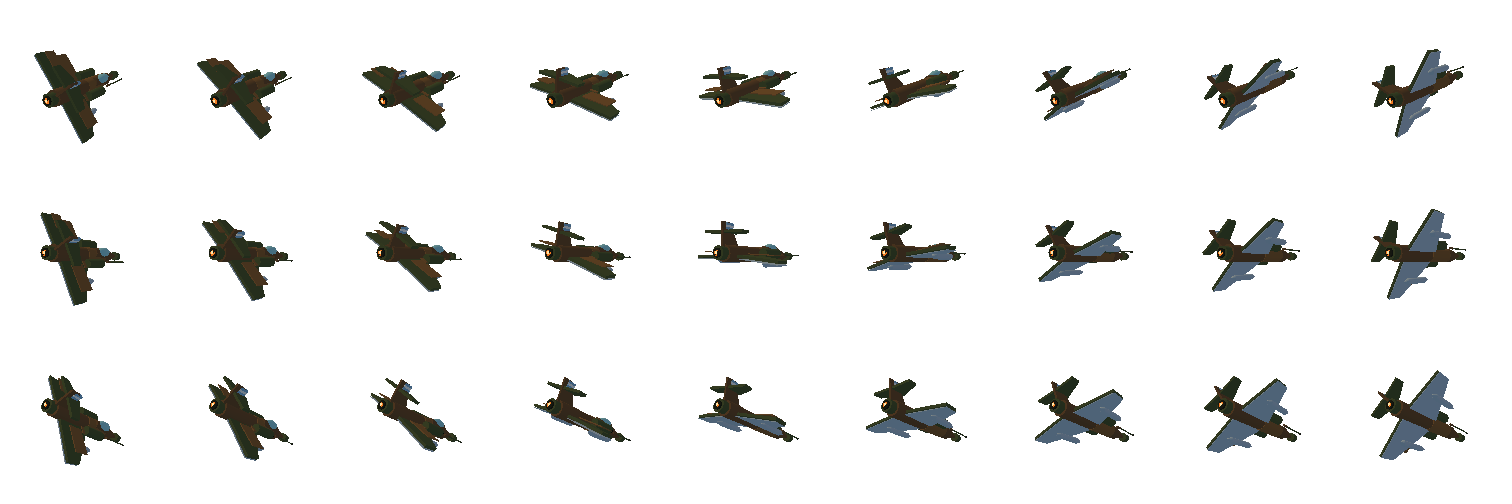
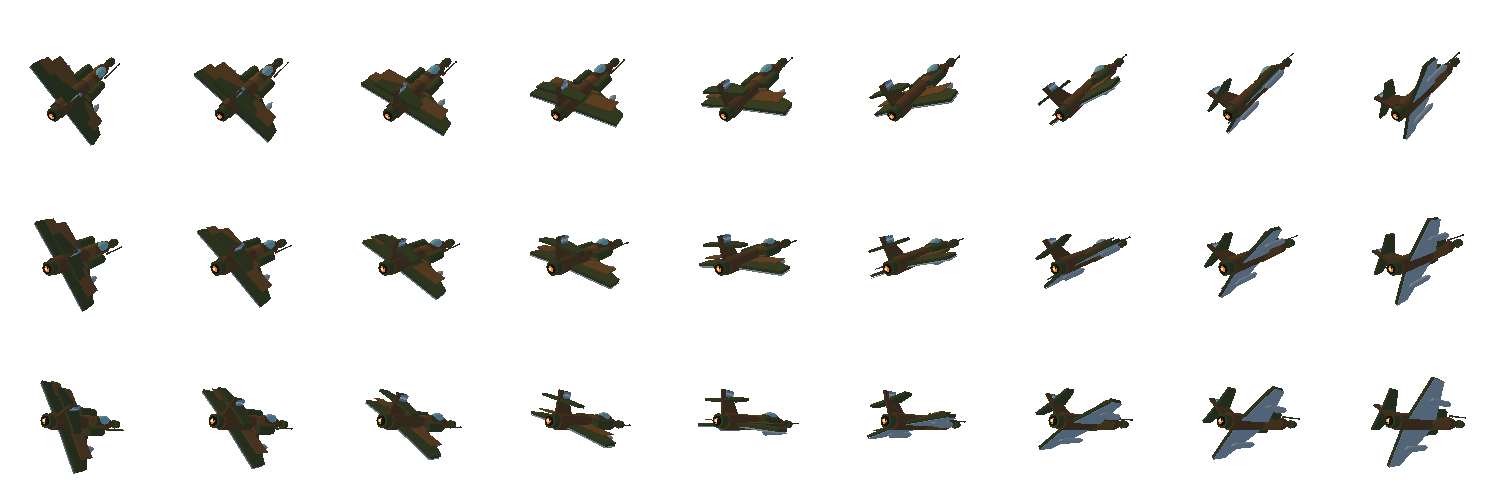
rasante: recto no es lo mismo que bien — el avion a ras va con la trompa arriba
Tercera corrección de Matias sobre la hoja del poder, y la que mas enseña: "mira hacia abajo
como queriendose estrellar en el agua". El eje estaba MEDIDO en -2°, o sea recto. Y estaba mal
igual.

POR QUE: un avion volando a ras a 900 km/h va con la trompa ARRIBA, sosteniendose con angulo de
ataque — no clavado en la horizontal. Sobre un mar que corre hacia la camara, un sprite
perfectamente horizontal no se lee "nivelado": se lee CAYENDO. Las dos correcciones anteriores
buscaron el cero de una regla; esta dice que el cero de la regla no era el objetivo.

EL NUMERO NO SALIO DE UN BARRIDO NUEVO: salio de la pantalla. La pose que Matias aprobo —"asi
estoy manteniendo hacia arriba y QUEDA BIEN"— era literalmente LA FILA 0 de la horneada
anterior, o sea 14 + 6 = 20. Se adopta ese valor como base y las tres filas se corren con el:

    fila 0 (trepa) = 34   ·   fila 1 (nivel) = 20   ·   fila 2 (pica) = 6

Con eso se cumplen los dos pedidos de una sola horneada: la base pasa a ser la pose aprobada, y
la fila de arriba queda MAS en punta, que es el asset aparte que pidio "para el que es arriba
realmente". La de abajo hereda el cabeceo suave que era la base hasta hoy — y esta bien que no
sea una picada: durante el poder el resorte te tiene contra el agua, y una trompa clavada abajo
ahi seria mentira.

Las 22 hojas base siguen byte-identicas. `npm run check` verde y `npm run feel` identico.

diff --git a/tools/bake_planes.html b/tools/bake_planes.html
@@ -77,7 +77,22 @@
     // Se corrige levantandole la nariz al MODELO hasta que su eje quede horizontal DENTRO del
     // frame. El numero no se eligio a ojo: se horneo un barrido y se midio el angulo del eje
     // sobre el alfa (la punta mas a la derecha contra el centroide del naranja del escape).
-    const RAS_PITCH = 6;
+    //
+    // EL NUMERO SUBIO DE 6 A 20, Y NO POR LA CUENTA: POR EL OJO. Con 6 el eje quedaba en -2° —
+    // recto, medido— y Matias igual lo veia "mirando hacia abajo como queriendose estrellar en el
+    // agua". Tenia razon, y la explicacion es que RECTO NO ES LO MISMO QUE BIEN: un avion volando
+    // a ras a 900 km/h va con la trompa ARRIBA, sosteniendose con angulo de ataque, no clavado en
+    // la horizontal. Un sprite perfectamente horizontal sobre un mar que corre se lee cayendo.
+    //
+    // El valor salio de la pantalla y no de un barrido: la pose que Matias aprobo ("asi estoy
+    // manteniendo hacia arriba y QUEDA BIEN") era LA FILA 0 de la horneada anterior, o sea
+    // 14 + 6 = 20. Se adopta ese numero como base y las tres filas se corren con el:
+    //     fila 0 (trepa) = 34   ·   fila 1 (nivel) = 20   ·   fila 2 (pica) = 6
+    // La fila de arriba queda MAS en punta —que es lo que pidio para "el que es arriba de
+    // verdad"— y la de abajo queda donde estaba la base, que es un cabeceo suave y no una picada:
+    // durante el poder el resorte te tiene contra el agua y una trompa clavada abajo ahi seria
+    // mentira.
+    const RAS_PITCH = 20;
     // Y LA COMPENSACION DE ALABEO, que aparecio despues y por el mismo camino: Matias vio el
     // avion "como tocando el agua con un ala, como si estuviese doblando". Tambien es cierto, y
     // tambien es la proyeccion — en un tres cuartos REAL las alas NO quedan horizontales en
